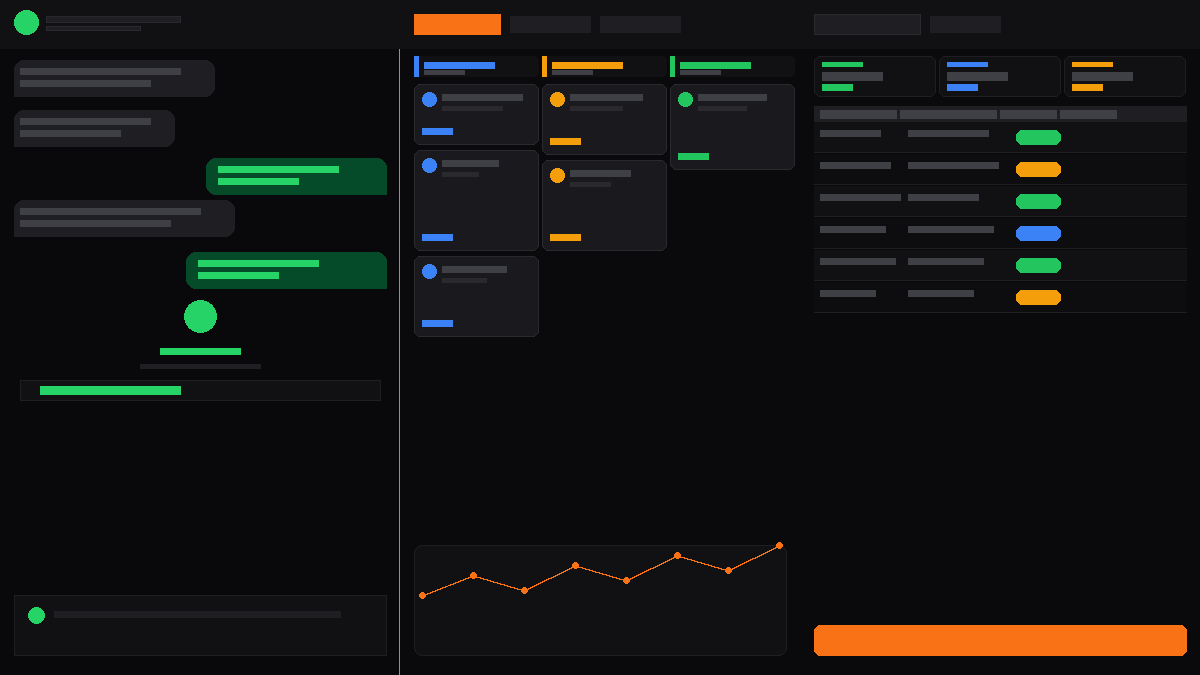
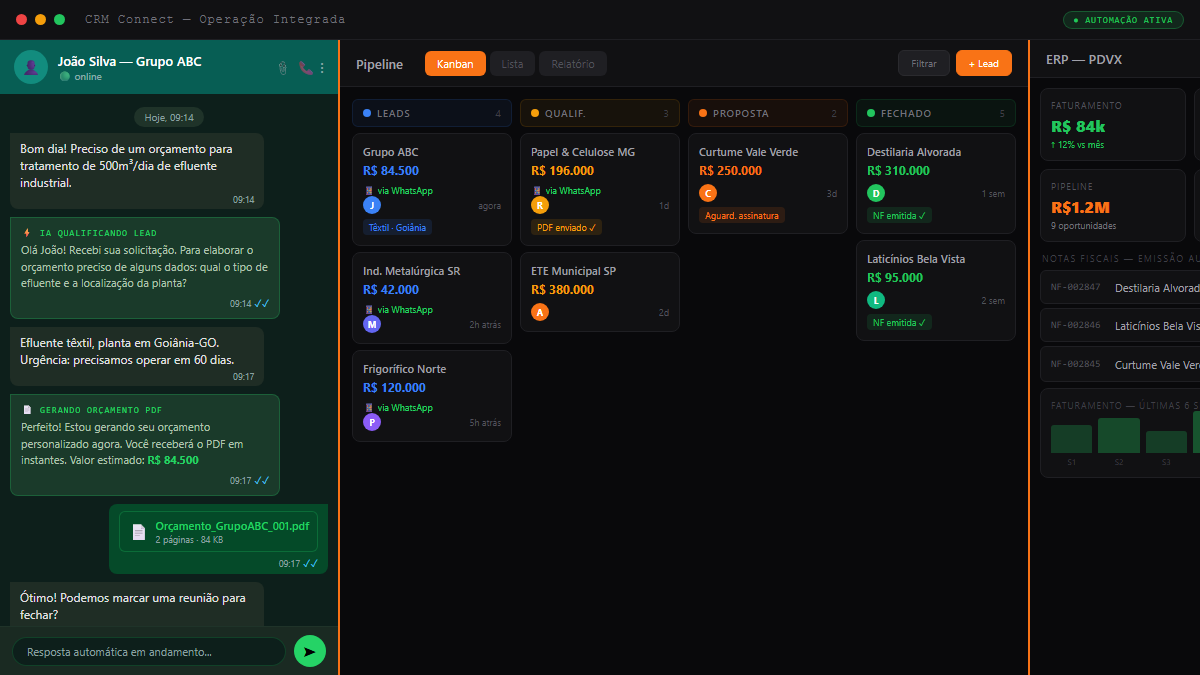
feat: add HTML/Playwright screenshots for all portfolio projects
All 11 projects now have images: CRM Connect redesigned with realistic
WhatsApp conversation + Kanban + ERP layout. Red Meet Pro, VibeVoice
and Youtube Digest generated via HTML+Playwright.

diff --git a/src/app/portfolio/page.tsx b/src/app/portfolio/page.tsx
@@ -60,7 +60,7 @@ const PROJECTS = [
         category: "Desktop",
         color: "from-red-500 to-rose-500",
         accent: "#ef4444",
-        image: null,
+        image: "/images/portfolio/redmeetpro.png",
     },
     {
         id: "vibevoice",
@@ -71,7 +71,7 @@ const PROJECTS = [
         category: "Automação",
         color: "from-pink-500 to-fuchsia-500",
         accent: "#ec4899",
-        image: null,
+        image: "/images/portfolio/vibevoice.png",
     },
     {
         id: "cbf",
@@ -104,7 +104,7 @@ const PROJECTS = [
         category: "Automação",
         color: "from-orange-500 to-amber-500",
         accent: "#f97316",
-        image: null,
+        image: "/images/portfolio/youtubedigest.png",
     },
     {
         id: "nexus",
